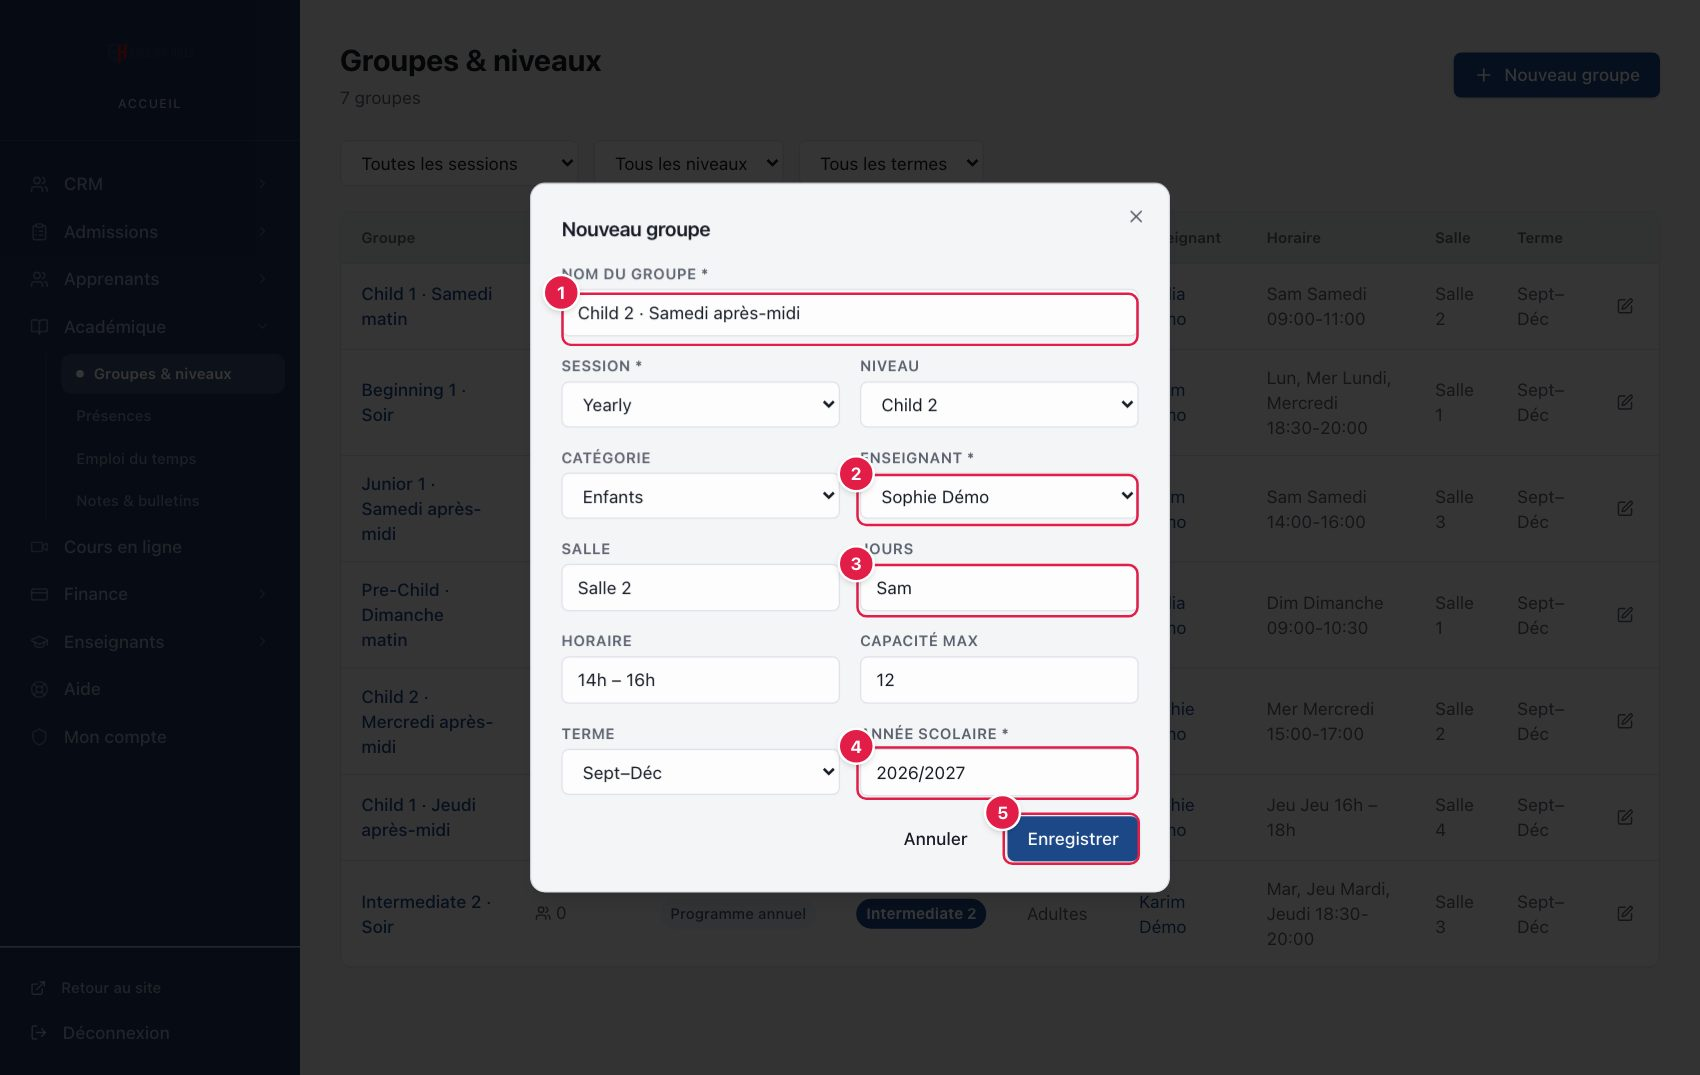
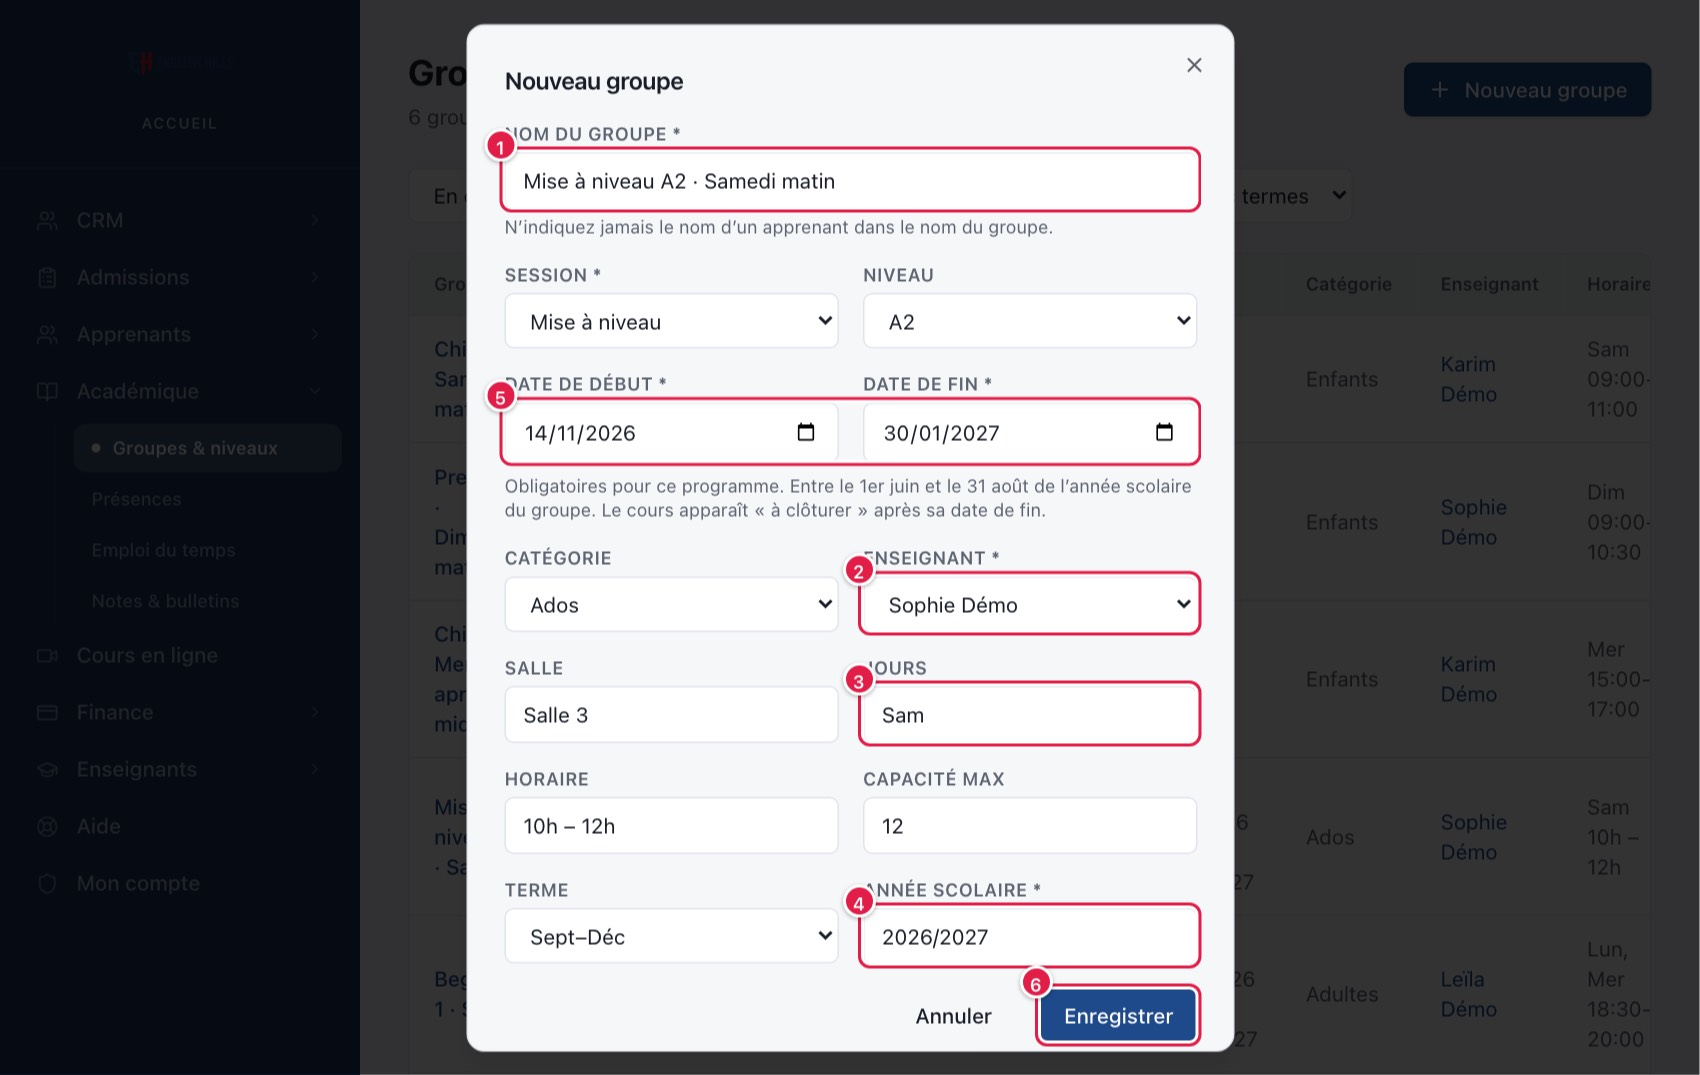
fix(groups): CDC-r3 review — close dialog before the end date, closed online page, form parity
App review of #186 at b293391 (Tier 3). Migration 128 is unchanged.

- S2: before its end date only an empty course closes; the dialog offers
  « Laisser en attente » only and sends no paid enrollment.
- S3: a closed online course's page hides « Ajouter des apprenants »
  (closed-online set) and says so.
- The form is never stricter than the database: one date on an optional
  programme; an edit re-checks the dates only on a programme or date change
  and the window only on a date or year change (closed undated groups edit).
- Leaving One-to-One gives the group its capacity back (12 for a new group).
- « Clôturer l'année » is enabled when it would only mark groups; waiting and
  carried-over rows are split by programme.
- ?vue=a-cloturer for admin and reception says the list is the director's.
- SECURITY_RULES: the protected mark raises 42501, not 23514.
- Guide: q08 and s17 re-captured on synthetic data (Mise à niveau with six
  markers; the view filter and the Dates column).

diff --git a/src/app/(admin)/groups/page.jsx b/src/app/(admin)/groups/page.jsx
@@ -3,7 +3,7 @@
 import { currentSchoolYear, groupMemberIds, groupYear, isSchoolYear } from '@/lib/enrollmentWorkflow.mjs';
 import { EGC_REASON_TEXT, groupDeleteErrorMessage, membershipErrorMessage } from '@/lib/academic/membershipActions.mjs';
 import {
-  GROUP_VIEWS, courseDatesError, courseDatesLabel, courseDatesRequired, courseEndedSuffix, fetchClosedOnlineGroupIds,
+  GROUP_VIEWS, capacityAfterProgrammeChange, courseDatesError, courseDatesLabel, courseDatesRequired, courseEndedSuffix, fetchClosedOnlineGroupIds,
   formatCourseDate, isClosedCourse, listCoursesToClose, oneToOneGroupName,
 } from '@/lib/academic/courseClose.mjs';
 import CloseCourseDialog from '@/components/groups/CloseCourseDialog';
@@ -65,8 +65,11 @@ function GroupModal({ group, teachers, onSave, onClose, receptionist, memberCoun
       ...f,
       session_type: sessionType,
       niveau: firstLevel,
+      // Q4 = A: One-to-One has capacity 1; leaving it gives a group's capacity back.
+      capacite_max: capacityAfterProgrammeChange({ from: f.session_type, to: sessionType, capacity: f.capacite_max,
+        savedCapacity: group?.capacite_max, savedProgramme: group?.session_type }),
       ...(sessionType === 'Adults' ? { categorie: 'Adultes' } : {}),
-      ...(sessionType === 'One-to-One' ? { capacite_max: 1, categorie: 'Particulier' } : {}),
+      ...(sessionType === 'One-to-One' ? { categorie: 'Particulier' } : {}),
       ...(isOnlineSessionType(sessionType) ? { teacher_id: '', salle: '', date_debut: '', date_fin: '' } : {}),
     }));
   };
@@ -77,9 +80,12 @@ function GroupModal({ group, teachers, onSave, onClose, receptionist, memberCoun
       toast.error('Année scolaire invalide : utilisez le format 2026/2027 (deux années consécutives).');
       return;
     }
-    // CDC (D1): the course dates, as the database checks them.
+    // CDC (D1): the course dates, as the database checks them (never stricter: an edit
+    // that keeps the programme and the dates is not re-checked, as in the database).
     const datesError = courseDatesError({ sessionType: form.session_type, schoolYear: form.school_year.trim(),
-      dateDebut: form.date_debut, dateFin: form.date_fin });
+      dateDebut: form.date_debut, dateFin: form.date_fin,
+      previous: group ? { sessionType: group.session_type, schoolYear: (group.annee || '').replace('-', '/'),
+        dateDebut: group.date_debut || '', dateFin: group.date_fin || '' } : null });
     if (datesError) { toast.error(datesError); return; }
     setSaving(true);
     const payload = { name: form.name, langue: form.langue || 'Anglais', session_type: form.session_type,
@@ -205,6 +211,10 @@ export default function Groups() {
   const [closeTarget, setCloseTarget] = useState(null);
   const director = role === 'director';
   const views = GROUP_VIEWS.filter(v => v.value !== 'a-cloturer' || director);
+  // « À clôturer » is the director's list: a link to it opened by another role says so
+  // and shows the courses in progress.
+  const directorOnlyView = view === 'a-cloturer' && !director;
+  const shownView = directorOnlyView ? 'en-cours' : view;
 
   useEffect(() => {
     const params = new URLSearchParams(window.location.search);
@@ -267,8 +277,8 @@ export default function Groups() {
 
   const teacherName = (tid) => teachers.find(t => t.id === tid)?.full_name || '—';
   const finishedById = new Map(toClose.map(row => [row.group_id, row]));
-  const inView = (g) => view === 'a-cloturer' ? finishedById.has(g.id)
-    : view === 'clotures' ? isClosedCourse(g, closedOnline) : !isClosedCourse(g, closedOnline);
+  const inView = (g) => shownView === 'a-cloturer' ? finishedById.has(g.id)
+    : shownView === 'clotures' ? isClosedCourse(g, closedOnline) : !isClosedCourse(g, closedOnline);
   const filtered = groups.filter(g => (
     inView(g)
     && (!filterTerme || g.terme === filterTerme)
@@ -299,7 +309,7 @@ export default function Groups() {
       <div className="flex flex-col sm:flex-row sm:items-center sm:justify-between gap-3 mb-6">
         <div>
           <h1 className="text-2xl font-bold">Groupes & niveaux</h1>
-          <p className="text-muted-foreground text-sm mt-1">{filtered.length} groupe{filtered.length > 1 ? 's' : ''}{view === 'a-cloturer' ? ' à clôturer' : view === 'clotures' ? ' clôturés' : ' en cours'}</p>
+          <p className="text-muted-foreground text-sm mt-1">{filtered.length} groupe{filtered.length > 1 ? 's' : ''}{shownView === 'a-cloturer' ? ' à clôturer' : shownView === 'clotures' ? ' clôturés' : ' en cours'}</p>
         </div>
         {role !== 'teacher' && <Button onClick={() => setModal({})} className="self-start sm:self-auto">
           <Plus size={15} /> Nouveau groupe
@@ -307,7 +317,7 @@ export default function Groups() {
       </div>
 
       <div className="mb-5 flex flex-wrap gap-3">
-        <select aria-label="Vue des groupes" className="border border-border rounded-md px-3 py-2 text-sm bg-white" value={view} onChange={e => setView(e.target.value)}>
+        <select aria-label="Vue des groupes" className="border border-border rounded-md px-3 py-2 text-sm bg-white" value={shownView} onChange={e => setView(e.target.value)}>
           {views.map(v => <option key={v.value} value={v.value}>{v.label}{v.value === 'a-cloturer' && toClose.length ? ` (${toClose.length})` : ''}</option>)}
         </select>
         <select className="border border-border rounded-md px-3 py-2 text-sm bg-white" value={filterSession} onChange={e => { setFilterSession(e.target.value); setFilterLevel(''); }}>
@@ -324,6 +334,11 @@ export default function Groups() {
         </select>
       </div>
 
+      {directorOnlyView && (
+        <p role="status" className="mb-5 rounded-md border border-border bg-muted p-3 text-sm">
+          La liste « À clôturer » est réservée à la direction, qui clôture les cours terminés. Voici les groupes en cours.
+        </p>
+      )}
       <div className="bg-card border border-border rounded-lg overflow-hidden">
         {loading ? <div className="p-8 text-center text-muted-foreground text-sm">Chargement...</div> : (
           <>

diff --git a/src/components/groups/CloseCourseDialog.jsx b/src/components/groups/CloseCourseDialog.jsx
@@ -13,7 +13,7 @@ import { isRecordConflict } from '@/lib/conflictErrors.mjs';
 import { membershipErrorMessage } from '@/lib/academic/membershipActions.mjs';
 import {
   UNPLACED_CHOICES, allUnplacedChosen, closeCourse, closeCourseMessage, closeCoursePreview, courseDatesLabel, courseMoney as money,
-  unplacedLists,
+  effectiveUnplacedChoices, unplacedChoicesFor, unplacedLists,
 } from '@/lib/academic/courseClose.mjs';
 
 const plural = (n, one, many) => `${n} ${n > 1 ? many : one}`;
@@ -37,14 +37,17 @@ export default function CloseCourseDialog({ groupId, onClose, onClosed }) {
   useEffect(() => { load(); }, [load]);
 
   const unplaced = preview?.unplaced || [];
-  const ready = preview && !preview.closed_at && allUnplacedChosen(unplaced, choices) && reason.trim().length > 0
+  // Before the end date (an empty course), every paid enrollment without a group stays waiting.
+  const offered = unplacedChoicesFor(preview);
+  const chosen = effectiveUnplacedChoices(preview, choices);
+  const ready = preview && !preview.closed_at && allUnplacedChosen(unplaced, chosen) && reason.trim().length > 0
     && reason.trim().length <= 200 && (preview.empty || preview.finished);
 
   const submit = async (event) => {
     event.preventDefault();
     if (!ready) return;
     setSaving(true);
-    const { attach, end } = unplacedLists(unplaced, choices);
+    const { attach, end } = unplacedLists(unplaced, chosen);
     const { data, error } = await closeCourse(getBrowserClient(), {
       groupId, expectedCount: preview.live_count, reason: reason.trim(), attach, endUnplaced: end,
     });
@@ -98,15 +101,16 @@ export default function CloseCourseDialog({ groupId, onClose, onClosed }) {
             {unplaced.length > 0 && (
               <fieldset className="space-y-2 rounded-md border border-border p-3">
                 <legend className="px-1 font-semibold">Inscriptions payées sans groupe pour ce cours</legend>
-                <p className="text-xs text-muted-foreground">Choisissez pour chacune avant de clôturer.</p>
+                <p className="text-xs text-muted-foreground">{preview.finished ? 'Choisissez pour chacune avant de clôturer.'
+                  : 'Le cours n’est pas terminé : ces inscriptions restent en attente de leur groupe.'}</p>
                 {unplaced.map(row => (
                   <div key={row.enrollment_id} className="rounded-md border border-border p-2" data-testid="unplaced-row">
                     <p className="font-medium">{row.full_name}
                       <span className="font-normal text-muted-foreground"> · {row.level || 'sans niveau'} · payé {money(row.paid_total)}
                         {row.has_other_live ? ' · autre inscription en cours' : ''}
                         {row.created_after_end || row.next_session_deposit ? ' · inscrit ou payé après la fin du cours (session suivante ?)' : ''}</span></p>
-                    <div className="mt-1 flex flex-wrap gap-3" role="radiogroup" aria-label={`Choix pour ${row.full_name}`}>
-                      {UNPLACED_CHOICES.map(choice => (
+                    {preview.finished ? <div className="mt-1 flex flex-wrap gap-3" role="radiogroup" aria-label={`Choix pour ${row.full_name}`}>
+                      {offered.map(choice => (
                         <label key={choice.value} className="inline-flex items-center gap-1.5">
                           <input type="radio" name={`unplaced-${row.enrollment_id}`} value={choice.value}
                             checked={choices[row.enrollment_id] === choice.value}
@@ -114,8 +118,8 @@ export default function CloseCourseDialog({ groupId, onClose, onClosed }) {
                           {choice.label}
                         </label>
                       ))}
-                    </div>
-                    {choices[row.enrollment_id] === 'attach' && <p className="mt-1 text-xs text-muted-foreground">{UNPLACED_CHOICES[0].note}</p>}
+                    </div> : <p className="mt-1 text-xs text-muted-foreground">{offered[0].label}</p>}
+                    {chosen[row.enrollment_id] === 'attach' && <p className="mt-1 text-xs text-muted-foreground">{UNPLACED_CHOICES[0].note}</p>}
                   </div>
                 ))}
               </fieldset>

diff --git a/src/app/(admin)/students/page.jsx b/src/app/(admin)/students/page.jsx
@@ -24,7 +24,7 @@ import { toast } from 'sonner';
 import { STUDENT_STATUS_COLORS, SESSION_TYPE_COLORS, PAYMENT_STATUS_COLORS } from '@/lib/statusColors';
 import ProgrammePill from '@/components/operational/ProgrammePill';
 import { currentSchoolYear, fileAwaitsGroup, LIVE_ENROLLMENT_STATUSES } from '@/lib/enrollmentWorkflow.mjs';
-import { closeSchoolYearPreview } from '@/lib/academic/courseClose.mjs';
+import { closeSchoolYearPreview, programmeBreakdown, yearCloseHasWork } from '@/lib/academic/courseClose.mjs';
 import { PILL_CLASS, PILL_SELECT_CLASS } from '@/lib/ui/pill.mjs';
 import { money } from '@/lib/receiptFinance';
 import { ALL_LEVELS, SESSION_TYPES, getLevelsForSession } from '@/lib/academicPrograms';
@@ -110,14 +110,14 @@ function YearCloseDialog({ onClose, onDone }) {
           : <div className="space-y-1 text-sm" role="status">
             <p>{count} inscription(s) active(s) seront terminées. Les apprenants sans autre inscription deviennent « Ancien apprenant ». Paiements et soldes ne changent pas.</p>
             {Number(preview.kept_in_later_courses) > 0 && <p>{preview.kept_in_later_courses} inscription(s) d’un cours qui se termine plus tard restent en cours.</p>}
-            {waiting > 0 && <p>{waiting} inscription(s) payée(s) sans groupe restent en attente de leur cours (<Link href="/students?group=unassigned" className="text-primary underline">Groupe à affecter</Link>).</p>}
-            {carried > 0 && <p className="text-amber-700">{carried} inscription(s) payée(s) sans groupe d’une année scolaire précédente attendent toujours un groupe.</p>}
+            {waiting > 0 && <p>{waiting} inscription(s) payée(s) sans groupe restent en attente de leur cours ({programmeBreakdown(preview.kept_waiting_unplaced?.by_programme)}) (<Link href="/students?group=unassigned" className="text-primary underline">Groupe à affecter</Link>).</p>}
+            {carried > 0 && <p className="text-amber-700">{carried} inscription(s) payée(s) sans groupe d’une année scolaire précédente attendent toujours un groupe ({programmeBreakdown(preview.carried_over_waiting?.by_programme)}).</p>}
             <p>{Number(preview.groups_to_mark || 0)} groupe(s) seront marqués clôturés.</p>
           </div>}
         <label className="block text-xs font-semibold uppercase tracking-wide text-muted-foreground">Motif *
           <input className="mt-1 w-full rounded-md border border-border bg-white px-3 py-2 text-sm" maxLength={200} required value={reason} onChange={e => setReason(e.target.value)} /></label>
         <div className="flex justify-end gap-2"><Button type="button" variant="ghost" onClick={onClose}>Annuler</Button>
-          <Button type="submit" disabled={saving || !count || !reason.trim()}>{saving ? '…' : 'Clôturer'}</Button></div>
+          <Button type="submit" disabled={saving || !yearCloseHasWork(preview) || !reason.trim()}>{saving ? '…' : 'Clôturer'}</Button></div>
       </form>
     </DialogContent>
   </Dialog>;

diff --git a/src/app/(admin)/groups/[id]/page.jsx b/src/app/(admin)/groups/[id]/page.jsx
@@ -22,7 +22,7 @@ import { safeReturnTo } from '@/lib/navigation.mjs';
 import { getTeacherRoster, rosterToAcademicRows } from '@/lib/portal';
 import ReadState from '@/components/operational/ReadState';
 import { invalidateAfterLearnerSave } from '@/lib/cacheInvalidation.mjs';
-import { courseDatesLabel, courseFinished, formatCourseDate, reopenCourse, reopenCourseMessage } from '@/lib/academic/courseClose.mjs';
+import { courseDatesLabel, courseFinished, fetchClosedOnlineGroupIds, formatCourseDate, isClosedCourse, reopenCourse, reopenCourseMessage } from '@/lib/academic/courseClose.mjs';
 import { isOnlineSessionType } from '@/lib/academicPrograms';
 import CloseCourseDialog from '@/components/groups/CloseCourseDialog';
 
@@ -72,6 +72,8 @@ export default function GroupDetail() {
   const [closeOpen, setCloseOpen] = useState(false);
   const [reopening, setReopening] = useState(false);
   const [pastLearners, setPastLearners] = useState([]);
+  // Online courses closed on their own page (the closed-online set; staff only).
+  const [closedOnline, setClosedOnline] = useState(() => new Set());
 
   useEffect(() => {
     if (!id) return;
@@ -80,6 +82,8 @@ export default function GroupDetail() {
     (async () => {
       const [g] = await entities.Group.filter({ id });
       setGroup(g || null);
+      setClosedOnline(g && isOnlineSessionType(g.session_type) && role !== 'teacher'
+        ? await fetchClosedOnlineGroupIds(getBrowserClient()) : new Set());
       if (g?.teacher_id) {
         const [t] = await getTeacherDirectory({ id: g.teacher_id });
         setTeacher(t || null);
@@ -153,7 +157,9 @@ export default function GroupDetail() {
     setReload(value => value + 1);
   };
   const closed = Boolean(group?.closed_at);
-  const canPlace = canManage && !closed;
+  // An online course closed on its page takes no learner either (CDC D4, S3).
+  const onlineClosed = !closed && isClosedCourse(group, closedOnline);
+  const canPlace = canManage && !closed && !onlineClosed;
 
   // Q8 = A: the director undoes a close made by mistake; a conflict reloads the page.
   const reopen = async () => {
@@ -297,6 +303,11 @@ export default function GroupDetail() {
       {closed && (
         <p role="status" className="mb-6 flex items-center gap-2 rounded-lg border border-border bg-muted px-4 py-3 text-sm">
           <Lock size={15} className="shrink-0" /> Cours clôturé le {formatCourseDate(group.closed_at)}. Il n’accepte plus d’apprenant.
+        </p>
+      )}
+      {onlineClosed && (
+        <p role="status" className="mb-6 flex items-center gap-2 rounded-lg border border-border bg-muted px-4 py-3 text-sm">
+          <Lock size={15} className="shrink-0" /> Cours en ligne clôturé sur sa page Cours en ligne. Il n’accepte plus d’apprenant.
         </p>
       )}
 

diff --git a/src/app/(admin)/helpdesk/GuideContent.jsx b/src/app/(admin)/helpdesk/GuideContent.jsx
@@ -1038,7 +1038,7 @@ export default function GuideContent() {
 </li>
 </ol>
 <figure className="fig narrow">
-<Image src="/helpdesk/q08-groupe-formulaire.jpg" width={1700} height={1075} alt="Fenêtre Nouveau groupe avec le nom, l’enseignant, les jours, l’année scolaire 2026/2027, les dates du cours et le bouton Enregistrer" unoptimized tabIndex={0} role="button" /><ol className="legend">
+<Image src="/helpdesk/q08-groupe-formulaire.jpg" width={1700} height={1075} alt="Fenêtre Nouveau groupe pour une Mise à niveau avec le nom, l’enseignant, les jours, l’année scolaire 2026/2027, les dates du cours et le bouton Enregistrer" unoptimized tabIndex={0} role="button" /><ol className="legend">
 <li><span className="ui">Nom du groupe</span>&nbsp;: obligatoire.</li>
 <li><span className="ui">Enseignant</span>&nbsp;: obligatoire. Il choisit parmi les enseignants existants.</li>
 <li><span className="ui">Jours</span>&nbsp;: du texte libre, mais l’<b>Emploi du temps</b> s’en sert (écrivez Lun, Mar, Mer, Jeu, Ven, Sam, Dim).</li>
@@ -1487,7 +1487,7 @@ export default function GuideContent() {
 <p>Liste des groupes (programme, niveau, dates du cours, enseignant, horaire, salle, terme). Le filtre de vue montre <span className="ui">En cours</span> par défaut, ou <span className="ui">Clôturés</span>. Vous pouvez créer et modifier un groupe, pas le supprimer. Un groupe a besoin d’un enseignant et d’une année scolaire, et un programme court de ses dates (<a href="#q8">Q8</a>)&nbsp;; sa page affiche l’année et les dates.</p>
 <p>Page d’un groupe&nbsp;: <span className="ui">Ajouter des apprenants</span> et <span className="ui">Retirer</span> (<a href="#q10">Q10</a>). Un cours clôturé affiche «&nbsp;Cours clôturé le …&nbsp;», n’a plus ces boutons et montre la liste <b>Anciens apprenants du cours</b>.</p>
 <figure className="fig" style={{ marginBottom: '10px' }}>
-<Image src="/helpdesk/s17-groups.jpg" width={1700} height={1075} alt="Liste des groupes et niveaux" unoptimized tabIndex={0} role="button" /></figure>
+<Image src="/helpdesk/s17-groups.jpg" width={1700} height={1075} alt="Liste des groupes et niveaux en vue En cours, avec la colonne Dates et un cours marqué terminé" unoptimized tabIndex={0} role="button" /></figure>
 </div>
 <div className="card">
 <h4>Présences</h4>

diff --git a/docs/ai/SECURITY_RULES.md b/docs/ai/SECURITY_RULES.md
@@ -50,7 +50,7 @@ The [Production-verified O3-r2 Batch-1 reads](../architecture/evidence/outcome-3
 [Plan CDC-r3](../architecture/plans/course-dates-close.md), [ADR-016](../architecture/decisions/ADR-016-course-dates-and-close.md); **implemented on branch `feat/course-dates-close`, not merged, not deployed, 128 not applied on Production.** No role gains a capability other than the director commands below.
 
 - **Director commands.** `list_courses_to_close`, `close_course_preview`, `close_course`, `reopen_course` and `close_school_year_preview` are SECURITY DEFINER with `search_path = pg_catalog, pg_temp`, executable by `authenticated` only (revoked from `public`, `anon`, `service_role`), and refuse every role but director. Conflicts raise `PT409` (ADR-009), never `40001`. The private helpers (`academic_security.course_*`, `year_close_rows`) have no API grant.
-- **The closed mark** (`groups.closed_at`, `closed_by`) is written only inside the commands, under the transaction-local flag `eh.course_command`; a direct write is refused for every role, `service_role` and the migration role included (`23514`, hint `course.mark_protected`). A closed group's dates, year, programme, level and capacity are frozen.
+- **The closed mark** (`groups.closed_at`, `closed_by`) is written only inside the commands, under the transaction-local flag `eh.course_command`; a direct write is refused for every role, `service_role` and the migration role included (`42501`, hint `course.mark_protected`). A closed group's dates, year, programme, level and capacity are frozen.
 - **Closed-course guard.** Trigger `enrollment_course_guard` (`academic_security.guard_course_placement()`, SECURITY DEFINER, no API grant) share-locks the group row (and the online course row) and refuses any entry into a closed course on every path (`23514`, hint `course.closed`). Exemptions: the Batch D two-flag restore (`eh.membership_sync` and `eh.enrollment_command`) and `eh.course_command` inside the commands. `enforce_group_capacity` is re-created with only a share lock on its group read, so every path takes the group row before the seat lock.
 - **Journal.** `maintenance.course_close_journal` (ids, statuses, groups, years and charge ids; no personal data) has RLS enabled and no privilege for `public`, `anon`, `authenticated` or `service_role`.
 - **Family-scoped group read (OA3).** The policy « groups read all auth » is replaced by « groups read staff » (every authenticated non-pending, non-family role, as before) and « groups read family » (parent and student: only `public.family_group_ids()`, a SECURITY DEFINER helper with a fixed `search_path`, executable by `authenticated` only, returning the groups of the caller's visible learners). « groups admin all » is unchanged. Group names must never contain a learner's name (One-to-One names are neutral).
